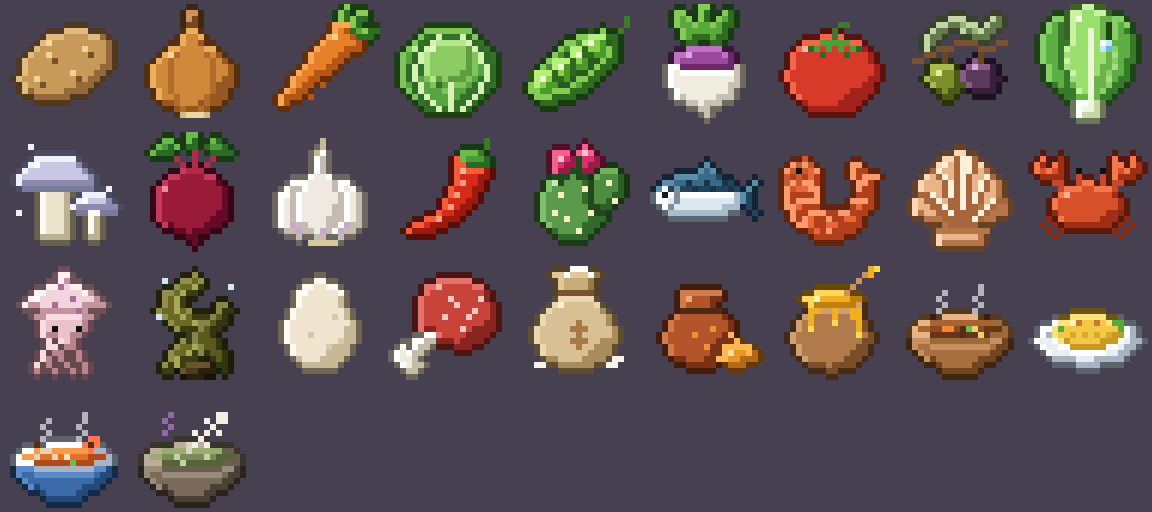
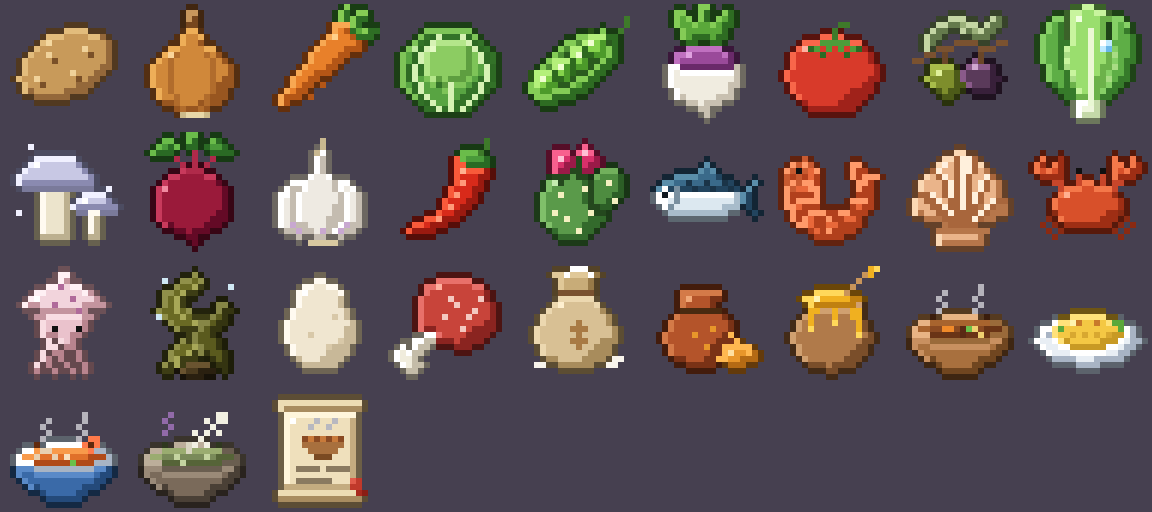
시안: 항구(해상왕국 배가 찾아오는 처음부터 열린 시설) 장면 · 창 · 레시피 그림 · 하늘의 눈 다시 그린 시안 넷 — 사용자 답을 메모에
Claude-Session: https://claude.ai/code/session_01WLiZx3Lii4cu91RuDKqyaT

Changed region(s): [[0.2188, 0.75, 0.3438, 1.0]]

diff --git a/tools/saved/draft68/port/port68.js b/tools/saved/draft68/port/port68.js
@@ -1,0 +1,79 @@
+// 빌드 68 시안: 항구 (처음부터 열린 시설 · 해상왕국 배가 찾아온다) — HQS에 잠깐 끼워 실제 본부 화면으로 찍는다. 게임에는 안 넣음.
+const PORT = window.PORT68 || (window.PORT68 = { ship: true });
+function portShip(g, K, T) {
+  const { FB } = K, wl = FB - 6, night = q3Night(T) > 0.5;
+  const H0 = '#6a4228', H1 = '#5a3420', H2 = '#8a5a34', TE = '#2a8a8a', CO = '#e8705a';
+  // 돛대 · 돛 (돛대는 활대에서 끝난다 — 십자 꼴이 생기지 않게 · 깃발은 고물 깃대에)
+  for (const [mx, top0, sx0, sx1, sy0, sy1] of [[70, 40, 54, 86, 44, 84], [112, 56, 98, 126, 60, 90]]) {
+    const top = sy0 - 2;   // 돛대 끝 = 활대 (위로 삐져나오면 십자 꼴)
+    qF(g, mx, top, 2, wl - 30 - top, '#5a3a22'); qF(g, mx, top, 1, wl - 30 - top, '#7a5232');
+    qF(g, sx0 - 1, sy0 - 2, sx1 - sx0 + 2, 2, '#5a3a22');
+    for (let y = sy0; y < sy1; y++) { const b = Math.round(Math.sin((y - sy0) / (sy1 - sy0) * Math.PI) * 3); qF(g, sx0 + 1, y, sx1 - sx0 + b, 1, (y - sy0) % 9 === 8 ? '#d8ccb0' : '#f0e8d0'); qP(g, sx0 + 1, y, '#c8bca0'); qP(g, sx1 + b, y, '#c8bca0'); }
+    if (mx === 70) { const cx = 70, cy = 66; for (let r = 0; r < 7; r++) for (let a = -60; a <= 60; a += 12) { const th = (a - 90) * Math.PI / 180; qP(g, Math.round(cx + Math.cos(th) * r), Math.round(cy + 3 + Math.sin(th) * r), r > 5 ? '#b8503a' : CO); } qF(g, cx - 2, cy + 3, 5, 2, '#b8503a'); }   // 산호 조개 문장
+  }
+  for (const [x0, y0, x1, y1] of [[71, 42, 150, wl - 36], [71, 42, 36, wl - 44], [113, 58, 150, wl - 36]]) { const n = Math.max(Math.abs(x1 - x0), Math.abs(y1 - y0)); for (let i = 0; i <= n; i += 2) qP(g, Math.round(x0 + (x1 - x0) * i / n), Math.round(y0 + (y1 - y0) * i / n), '#3a2a1a'); }
+  // 선체
+  qQ(g, [[30, wl - 34], [150, wl - 34], [156, wl - 40], [150, wl - 22], [138, wl], [40, wl], [30, wl - 16]], H0);
+  for (let y = wl - 30; y < wl; y += 4) qF(g, 34, y, 112, 1, H1);
+  qF(g, 30, wl - 36, 122, 2, H2); qF(g, 30, wl - 36, 122, 1, '#a87a4a');
+  qF(g, 32, wl - 22, 116, 3, TE); qF(g, 32, wl - 23, 116, 1, CO);
+  for (const x of [60, 84, 108, 128]) { qDisc(g, x, wl - 14, 2, '#d8a838'); qDisc(g, x, wl - 14, 1, night ? '#f8d060' : '#1a2030'); }
+  qQ(g, [[30, wl - 36], [56, wl - 36], [56, wl - 48], [30, wl - 50]], H0); qF(g, 30, wl - 50, 26, 2, H2);   // 고물 다락
+  for (const x of [36, 44]) qF(g, x, wl - 46, 4, 5, night ? '#f8c050' : '#2a3040');
+  qF(g, 150, wl - 42, 10, 1, '#5a3a22'); qF(g, 154, wl - 44, 6, 1, '#5a3a22');   // 이물 기움 돛대
+  qF(g, 31, wl - 70, 1, 22, '#5a3a22');   // 고물 깃대 + 해상왕국 깃발 (청록 바탕 · 산호 조개)
+  qF(g, 32, wl - 70, 12, 8, TE); qF(g, 32, wl - 70, 12, 1, '#4ab0b0'); qF(g, 36, wl - 67, 4, 3, CO); qP(g, 37, wl - 68, '#ffb0a0');
+  // 뱃전 등
+  for (const [lx, ly] of [[33, wl - 54], [148, wl - 40]]) { qF(g, lx - 2, ly, 5, 5, '#3a3a44'); qF(g, lx - 1, ly + 1, 3, 3, night ? '#f8c050' : '#8a7a5a'); }
+  return wl;
+}
+function portPier(g, K, T) {
+  const { W, FB, H } = K;
+  qF(g, 0, FB, W, H - FB, '#8a6a48');
+  for (let y = FB + 4, i = 0; y < H; y += 5, i++) { qF(g, 0, y, W, 4, i % 2 ? '#7e6040' : '#94744e'); qF(g, 0, y + 4, W, 1, '#5a4430'); for (let x = (i * 13) % 24; x < W; x += 24) qF(g, x, y, 1, 4, '#5a4430'); }
+  qF(g, 0, FB, W, 4, '#6a4a30'); qF(g, 0, FB, W, 1, '#a07a50');
+  for (let x = 4; x < W; x += 26) { qF(g, x, FB - 10, 5, 12, '#5a3e28'); qF(g, x, FB - 10, 5, 1, '#7a5638'); qF(g, x + 1, FB - 7, 3, 1, '#c8b080'); }   // 말뚝 + 밧줄
+}
+const A3_PORT = {
+  zoom: 1.25,
+  geo(K) { K.FB = K.bot - 84; return K; },
+  bg(g, K, T) {
+    const { W, FB } = K, night = q3Night(T) > 0.5, hz = 122;
+    q3Glass(g, 0, 0, W, hz, T, 11);
+    const bands = night ? ['#1e3050', '#18284a', '#122040', '#0e1a36'] : ['#6aa4d4', '#4a86c0', '#3a6eaa', '#2a5a96'];
+    bands.forEach((c, i) => qF(g, 0, hz + Math.round((FB - hz) * i / 4), W, Math.ceil((FB - hz) / 4) + 1, c));
+    for (let y = hz + 3, i = 0; y < FB; y += 4, i++) for (let x = (i * 17) % 30; x < W; x += 30) qF(g, x, y, 6 + (i % 3) * 2, 1, night ? '#3a5a80' : '#9ac8ee');
+    qQ(g, [[0, hz], [0, hz - 14], [10, hz - 18], [22, hz - 16], [34, hz - 10], [48, hz]], night ? '#1a2028' : '#4a5a5a');   // 먼 곶 · 등대
+    qF(g, 20, hz - 34, 6, 18, '#f0ece4'); for (const y of [hz - 30, hz - 22]) qF(g, 20, y, 6, 3, '#c0392b'); qF(g, 19, hz - 38, 8, 4, '#3a3a44'); qF(g, 21, hz - 37, 4, 2, night ? '#ffe080' : '#a8b0b8');
+    qQ(g, [[118, hz], [126, hz - 6], [140, hz - 8], [152, hz - 5], [160, hz - 3], [160, hz]], night ? '#182028' : '#5a6a6a');
+  },
+  house(g, K, T) {
+    const { W, FB } = K;
+    if (PORT.ship) portShip(g, K, T);
+    portPier(g, K, T);
+    for (const [x, y, w, h] of [[6, FB + 16, 16, 12], [8, FB + 6, 12, 10], [24, FB + 20, 14, 10]]) { qF(g, x, y, w, h, '#a8783e'); qF(g, x, y, w, 2, '#c8985e'); qF(g, x, y + h - 1, w, 1, '#6a4422'); qF(g, x + 2, y + 4, w - 4, 1, '#7a5228'); }   // 상자
+    for (const x of [W - 34, W - 22]) { qEll(g, x, FB + 22, 6, 8, '#7a4e2a'); qF(g, x - 6, FB + 17, 13, 1, '#3a3a44'); qF(g, x - 6, FB + 26, 13, 1, '#3a3a44'); qF(g, x - 3, FB + 15, 3, 14, '#9a6a3a'); }   // 통
+    qF(g, W - 12, FB - 30, 2, 70, '#3a3a44'); qF(g, W - 16, FB - 34, 10, 6, '#3a3a44'); qF(g, W - 15, FB - 33, 8, 4, '#8a7a5a');   // 부두 등 기둥
+    for (let i = 0; i < 6; i++) qEll(g, 52 + i, FB + 46, 7 - i, 2, i % 2 ? '#c8b080' : '#a89060');   // 감은 밧줄
+    if (PORT.ship) { for (let i = 0; i < 14; i++) qF(g, 104 + Math.round(i * 0.5), FB - 34 + i * 3, 12, 2, i % 3 ? '#9a6a3a' : '#6a4422'); }   // 건널판
+    else { qF(g, 98, FB + 4, 2, 26, '#5a3e28'); qF(g, 88, FB + 2, 22, 12, '#c8a070'); qF(g, 88, FB + 2, 22, 1, '#e0c090'); qF(g, 88, FB + 13, 22, 1, '#7a5228'); }   // 「다음 배」 표판
+  },
+  live(g, K, t, T) {
+    const { W, FB } = K, night = q3Night(T) > 0.5;
+    for (let i = 0; i < 9; i++) { const x = Math.round((i * 37 + t * 6) % (W + 20)) - 10, y = 126 + (i * 11) % (FB - 132); if (PORT.ship && x > 28 && x < 158 && y > FB - 44) continue; qF(g, x, y, 3, 1, night ? '#5a7aa0' : '#e8f4ff'); }   // 반짝이는 물결
+    for (let i = 0; i < 3; i++) { const x = Math.round((t * (8 + i * 3) + i * 60) % (W + 30)) - 15, y = 30 + i * 14 + Math.round(Math.sin(t * 2 + i) * 3), up = Math.floor(t * 4 + i) % 2; qP(g, x - 2, y - up, '#f0f0f0'); qP(g, x - 1, y - 1 + up, '#f0f0f0'); qP(g, x, y, '#d8d8e0'); qP(g, x + 1, y - 1 + up, '#f0f0f0'); qP(g, x + 2, y - up, '#f0f0f0'); }   // 갈매기
+    if (PORT.ship) {
+      qF(g, 76, FB + 28, 22, 10, '#8a5a30'); qF(g, 76, FB + 28, 22, 2, '#a87a4a'); for (let i = 0; i < 4; i++) { qF(g, 78 + i * 5, FB + 30, 4, 2, '#c8d4e0'); qP(g, 78 + i * 5, FB + 30, '#ffffff'); }   // 생선 상자
+      qPeo('groom', g, true, 'idle', Math.floor(t * 1.2) % 2, 122, FB + 50, true);
+    }
+    qPeo('cook', g, true, 'idle', Math.floor(t * 1.1 + 1) % 2, 40, FB + 60, false);
+    const lamps = [[W - 11, FB - 30, 40, '#f8b048']]; if (PORT.ship) lamps.push([35, FB - 58, 34, '#f8b048'], [150, FB - 44, 30, '#f8b048']);
+    q3Light(g, K, T, { amb: 0.02, ambN: 0.56, lamps, wins: [] }, t);
+  }
+};
+HQS.port = A3_PORT; FLOOR_INFO.port = { name: '항구', win: 'b:kitchen' };
+if (!window.__portPatched) {
+  window.__portPatched = 1;
+  hqPlaces = (orig => () => { const L = orig(); const i = L.findIndex(f => f.id === 'tavern'); L.splice(i >= 0 ? i + 1 : L.length, 0, { id: 'port', key: 'port0', under: 0, name: '항구' }); return L; })(hqPlaces);
+}
+JSON.stringify({ ok: 1, places: hqPlaces().map(f => f.key) })

diff --git a/tools/saved/draft68/port/win68.js b/tools/saved/draft68/port/win68.js
@@ -1,0 +1,14 @@
+S.bld.kitchen = 1; S.modals = []; { const m = document.querySelector('#modal'); if (m) m.style.display = 'none'; }
+const ICO = window.__ICO68;
+openWin('b', { b: 'kitchen' }); document.querySelector('#win-title').textContent = '항구';
+const sea = [['sea_mackerel', 72, 8], ['sea_shrimp', 64, 10], ['sea_clam', 60, 6], ['sea_crab', 90, 4], ['sea_squid', 70, 6], ['sea_kelp', 60, 12]];
+const cell = (k, g) => `<span class="cell rq${g}" style="width:60px;height:60px;flex:none">${rqArt(ICO[k].url, g, 2)}</span>`;
+const rows = sea.map(([k, p, n]) => `<div class="li">${cell(k, ICO[k].grade)}<div class="grow stack"><span>${ICO[k].name} <span class="muted">해산물 · 희귀</span></span><span class="sub">${ICO[k].desc}</span><span class="sub gold-t">${p}G · 남은 수 ${n}</span></div><div class="stack" style="gap:3px"><button type="button" class="btn sm gold">사기</button><button type="button" class="btn sm">×5</button></div></div>`).join('');
+const recs = [['해물 수프', '은빛 고등어 · 붉은 새우 · 가리비 · 하르겐 양파', 0], ['해상왕의 만찬', '꽃게 · 붉은 새우 · 가리비 · 은빛 고등어 · 오징어 · 향신료', 0], ['다시마 국', '다시마 2 · 가리비 · 무정란', 1], ['꽃게 찜', '꽃게 2 · 바위 마늘 · 모래 고추', 0]];
+const rrows = recs.map(([nm, need, known]) => `<div class="li" style="${known ? 'opacity:.55' : ''}">${cell('recipe', 3)}<div class="grow stack"><span>${nm} 레시피 <span class="muted">${known ? '이미 앎' : '사면 도감에 적힘'}</span></span><span class="sub">${need}</span><span class="sub gold-t">100,000G</span></div><button type="button" class="btn sm ${known ? '' : 'gold'}" ${known ? 'disabled' : ''}>${known ? '앎' : '사기'}</button></div>`).join('');
+document.querySelector('#panel-in').innerHTML = `
+<div class="card"><div class="row"><div class="grow"><div class="h">해상왕국 코랄리아의 배 <small>산호호</small></div><div class="sub">오늘 밤 떠나요 · 다음 배는 4 ~ 6일 뒤 (배가 오면 소식에 알려요)</div></div></div>
+<div class="sub muted">항구는 처음부터 열려 있는 시설 — 해산물은 이 배에서만 살 수 있어요</div></div>
+<div class="sec"><b>해산물</b><span>상하지 않아요</span></div><div class="list">${rows}</div>
+<div class="sec"><b>레시피</b><span>해산물이 들어가는 요리 · 하나에 100,000G</span></div><div class="list">${rrows}</div>`;
+1

diff --git a/tools/saved/draft68/port/run.py b/tools/saved/draft68/port/run.py
@@ -1,0 +1,24 @@
+import json, sys, os
+from playwright.sync_api import sync_playwright
+D = '/tmp/claude-0/-home-claude/4368c869-ae47-5efb-8102-510605121dd4/scratchpad/v68/'
+out = D + 'port/sh'; os.makedirs(out, exist_ok=True)
+code = open(D + 'port/port68.js', encoding='utf-8').read()
+with sync_playwright() as pw:
+    br = pw.chromium.launch(); pg = br.new_page(viewport={'width': 412, 'height': 880}, device_scale_factor=2)
+    errs = []; pg.on('pageerror', lambda e: errs.append(str(e)))
+    pg.goto('file://' + D + 'play_ev68.html'); pg.wait_for_timeout(700)
+    pg.locator('button', has_text='상단 문 열기').first.click(); pg.wait_for_timeout(1200)
+    EV = lambda js: pg.evaluate("s => window.__EV(s)", js)
+    EV("S.modals = []; { const m = document.querySelector('#modal'); if (m) m.style.display = 'none'; } 1")
+    print(EV(code))
+    for name, dp, ship in (('day', 0.42, 'true'), ('night', 0.93, 'true'), ('empty', 0.5, 'false')):
+        EV(f"S.t = Math.floor(S.t / 180) * 180 + 180 + {dp} * 180; window.PORT68.ship = {ship}; hqGo('port0', true); if (HQ.shells && HQ.shells.clear) HQ.shells.clear(); 1")
+        pg.wait_for_timeout(900)
+        if ship == 'false':
+            EV("""(() => { let el = document.querySelector('#d68sign'); if (!el) { el = document.createElement('div'); el.id = 'd68sign'; document.body.appendChild(el); }
+              const cv = document.querySelector('#hq').getBoundingClientRect(), K = HQS.port.geo(hqGeo(1.25)), sc = cv.width / K.W;
+              el.style.cssText = `position:fixed;left:${cv.left + 99 * sc}px;top:${cv.top + (K.FB + 8) * sc}px;transform:translate(-50%,-50%);font:bold 12px Galmuri11,sans-serif;color:#4a2a10;white-space:nowrap;text-align:center;line-height:1.2`;
+              el.innerHTML = '다음 배<br>D-3'; })(); 1""")
+        else: EV("(() => { const el = document.querySelector('#d68sign'); if (el) el.remove(); })(); 1")
+        pg.wait_for_timeout(200); pg.screenshot(path=f'{out}/{name}.png')
+    print('errors:', errs[:5]); br.close()

diff --git a/tools/saved/draft68/ing/ing68.py b/tools/saved/draft68/ing/ing68.py
@@ -345,6 +345,24 @@ reg('food_omelet', '감자 오믈렛', 'dish', 'kitchen', 1, omelette(), '무정
 reg('food_seasoup', '해물 수프', 'dish', 'kitchen', 2, seasoup(), '고등어 · 새우 · 가리비 · 양파')
 reg('food_sus', '수상한 죽', 'dish', 'kitchen', 0, sus(), '레시피에 없는 조합 · 펫 먹이로는 그럭저럭')
 
+
+# ── 레시피 (왕국 상단 · 해상왕국 배가 판다, 100,000G) ──
+def recipe():
+    ic = Ico(); ic.mat('p', '#efe0bc', '#fff6dc', '#c4ac80', hi='#ffffff'); ic.mat('c', '#d8c49a', '#ecdcb4', '#a88c60')
+    ic.rect(4, 3, 12, 15, 'p'); ic.rect(3, 2, 14, 2, 'c'); ic.rect(3, 17, 14, 2, 'c')
+    ic.shade(deep=False); im = ic.render(); P = im.load()
+    for x in range(7, 14): P[x, 9] = hx('#a8703e')
+    for x in range(8, 13): P[x, 10] = hx('#a8703e')
+    for x in range(9, 12): P[x, 11] = hx('#7a4a22')
+    for x in range(7, 14): P[x, 8] = hx('#8a4a22') if x % 2 else hx('#c87a3a')
+    for (x, y) in ((8, 6), (9, 5), (11, 6), (12, 5)): P[x, y] = hx('#b8b8c0')
+    for x in range(6, 15, 1): P[x, 13] = hx('#8a7a60') if x not in (10,) else P[x, 13]
+    for x in range(6, 12): P[x, 15] = hx('#8a7a60')
+    for (x, y) in ((15, 15), (16, 16), (15, 16), (16, 15)): P[x, y] = hx('#c0392b')
+    P[15, 15] = hx('#e05a4a'); P[17, 17] = hx('#8a1e14'); P[16, 17] = hx('#a82a1e')
+    return im
+reg('recipe', '레시피', 'recipe', 'kitchen', 3, recipe(), '왕국 상단 · 해상왕국 배가 판다 (100,000G) — 사면 도감에 적힌다')
+
 if __name__ == '__main__':
     out, prev = sys.argv[1], sys.argv[2]
     json.dump({k: dict(name=v['name'], cat=v['cat'], src=v['src'], grade=v['grade'], desc=v['desc'], url=png_url(v['im'])) for k, v in ICONS.items()}, open(out, 'w'), ensure_ascii=False)

diff --git a/tools/saved/draft68/port/winrun.py b/tools/saved/draft68/port/winrun.py
@@ -1,0 +1,16 @@
+import json
+from playwright.sync_api import sync_playwright
+D = '/tmp/claude-0/-home-claude/4368c869-ae47-5efb-8102-510605121dd4/scratchpad/v68/'
+code = open(D + 'port/win68.js', encoding='utf-8').read(); ico = json.load(open(D + 'ing/icons68.json'))
+with sync_playwright() as pw:
+    br = pw.chromium.launch(); pg = br.new_page(viewport={'width': 412, 'height': 880}, device_scale_factor=2)
+    errs = []; pg.on('pageerror', lambda e: errs.append(str(e)))
+    pg.goto('file://' + D + 'play_ev68.html'); pg.wait_for_timeout(700)
+    pg.locator('button', has_text='상단 문 열기').first.click(); pg.wait_for_timeout(1200)
+    pg.evaluate("ico => { window.__ICO68 = ico; }", ico)
+    EV = lambda js: pg.evaluate("s => window.__EV(s)", js)
+    EV("(async () => { for (const k of Object.keys(window.__ICO68)) { const im = new Image(); await new Promise(r => { im.onload = r; im.src = window.__ICO68[k].url; }); const [c, x] = mkCanvas(20, 20); x.drawImage(im, 0, 0); URL_CV.set(window.__ICO68[k].url, c); } })()")
+    pg.wait_for_timeout(400); EV(code); pg.wait_for_timeout(400)
+    pg.screenshot(path=D + 'port/sh/win1.png')
+    pg.evaluate("() => document.querySelector('#panel').scrollTo(0, 9999)"); pg.wait_for_timeout(200)
+    pg.screenshot(path=D + 'port/sh/win2.png'); print('errors:', errs[:3]); br.close()

diff --git a/CLAUDE.md b/CLAUDE.md
@@ -489,7 +489,7 @@
   - 재배소: **채소도 기른다 · 하나 심으면 3 ~ 5개 수확**.
   - 요리: **힌트 없음** — 대신 각 왕국 상단 판매품에 그 왕국 식재료가 들어가는 요리의 **레시피를 판다 · 하나에 100,000G**.
 - 그 밖에 정한 것(내 제안 그대로): 펫 만렙 30 · Lv30 힘 = 예전 Lv60 · 레어도는 부화 때(일반 50 · 고급 30 · 희귀 14 · 영웅 5 · 전설 0.9 · 신화 0.1%, ×1.0 ~ 2.0) · 용기수 전직 = 와이번 펫 Lv30(랑기수 늑대와 같은 길) · 알 드랍 약 1/4 · 약초 줍기 12% → 하급 2 · 중급 0.2 · 최상급 0.02%.
-- 그림: 식재료 20×20 29개(하르겐 시장 8 — 날고기 · 밀가루 · 향신료 · 꿀은 새 그림 · 나라 특산 10 · 해산물 6 · 무정란 · 요리 4) · 요리 화면(구리솥 · 퐁당 · 빼기 · 새 레시피 카드, GIF) · 재배소 장면(HQS.farm 낮 · 밤 · 2동 + 아래 동 단추) · 재배소 창 · 사육장 창 · 유정란/무정란 알림 · 도감 요리 탭. 모두 게임 빌드에 `__EV`로 그려 찍었다(src는 안 바꿈).
+- 그림: 식재료 20×20 30개(하르겐 시장 8 — 날고기 · 밀가루 · 향신료 · 꿀은 새 그림 · 나라 특산 10 · 해산물 6 · 무정란 · 요리 4 · 레시피 쪽지) · 요리 화면(구리솥 · 퐁당 · 빼기 · 새 레시피 카드, GIF) · 재배소 장면(HQS.farm 낮 · 밤 · 2동 + 아래 동 단추) · 재배소 창 · 사육장 창 · 유정란/무정란 알림 · 도감 요리 탭 · 항구 장면(HQS.port, 선술집 다음 · 배가 든 낮 · 밤 · 빈 부두 「다음 배 D-n」 · 돛대는 활대에서 끝 — 위로 삐져나오면 십자 꼴) · 항구 창(해산물 · 레시피 100,000G). 모두 게임 빌드에 `__EV`로 그려 찍었다(src는 안 바꿈). 그림은 아직 「합격」을 안 받았다 — 사용자가 「넣어」 하면 구현.
 
 ## 전사 계열 장비 개편 1단계 · 방패 왼손 · 전직 레벨 · 각성 없애기 (빌드 64, 11-11 18:20 사용자 「3 작업 ㄱㄱ」 — wip-64 → main, 3차 APK 빌드 64)
 - 결정 출처: equip-draft 가지 `drafts/equip/DECISIONS.md`(전사 쪽 · 11-10 21:31~21:40 전직 표). 시안 16단계 그림은 사용자가 고른 것 그대로.

diff --git a/tools/saved/draft68/README.md b/tools/saved/draft68/README.md
@@ -11,5 +11,7 @@
   `run.py <출력> still|gif|fail [dpr]` — 게임 빌드(dist/play.html)에 `window.__EV` 훅을 걸어 게임 그리기 도구(q* · q3Light · rqArt)를 빌려 그린다.
 - `farm/farm68.js` 재배소 장소 장면(HQS.farm · hqPlaces에 끼움) · `run.py` 낮 · 밤 · 2동, `win68.js` · `winrun.py` 재배소 창.
 - `pen/pen68.js` 사육장 창(부화 확률 계단 · 품는 알 ? · 펫 레어도 칸) · 유정란/무정란 알림 · 도감 요리 탭 · 식재료 그림판, `run.py`.
+- `port/port68.js` 항구 장소 장면(HQS.port · 선술집 다음 · 배가 있을 때 / 없을 때 「다음 배 D-n」) · `run.py` 낮 · 밤 · 빈 부두, `win68.js` · `winrun.py` 항구 창(해산물 · 레시피 100,000G).
+  (11-12 19:57 사용자 답: 해상왕국은 「처음부터 열린 시설 항구 + 해상왕국 배가 찾아온다」 — 교역 원정 길은 버림.) `ing68.py`에 레시피 그림 `recipe` 더함.
 - 스크립트 안의 `D`는 세션 작업 폴더(scratchpad/v68/) — 다시 돌릴 때 이 폴더 구조로 옮기고 D를 바꾼다.
-- `out/` 보여 준 그림: d68_cook.gif · d68_cookfail_dex.png · d68_farm_scene.png · d68_farm_win.png · d68_pen.png · d68_ingredients.png.
+- `out/` 보여 준 그림: d68_cook.gif · d68_cookfail_dex.png · d68_farm_scene.png · d68_farm_win.png · d68_pen.png · d68_ingredients.png · d68_port.png · d68_skyeye.png(하늘의 눈 다시 그린 시안 넷 — 원본은 시안 저장소 dot/skyeye68.py).
